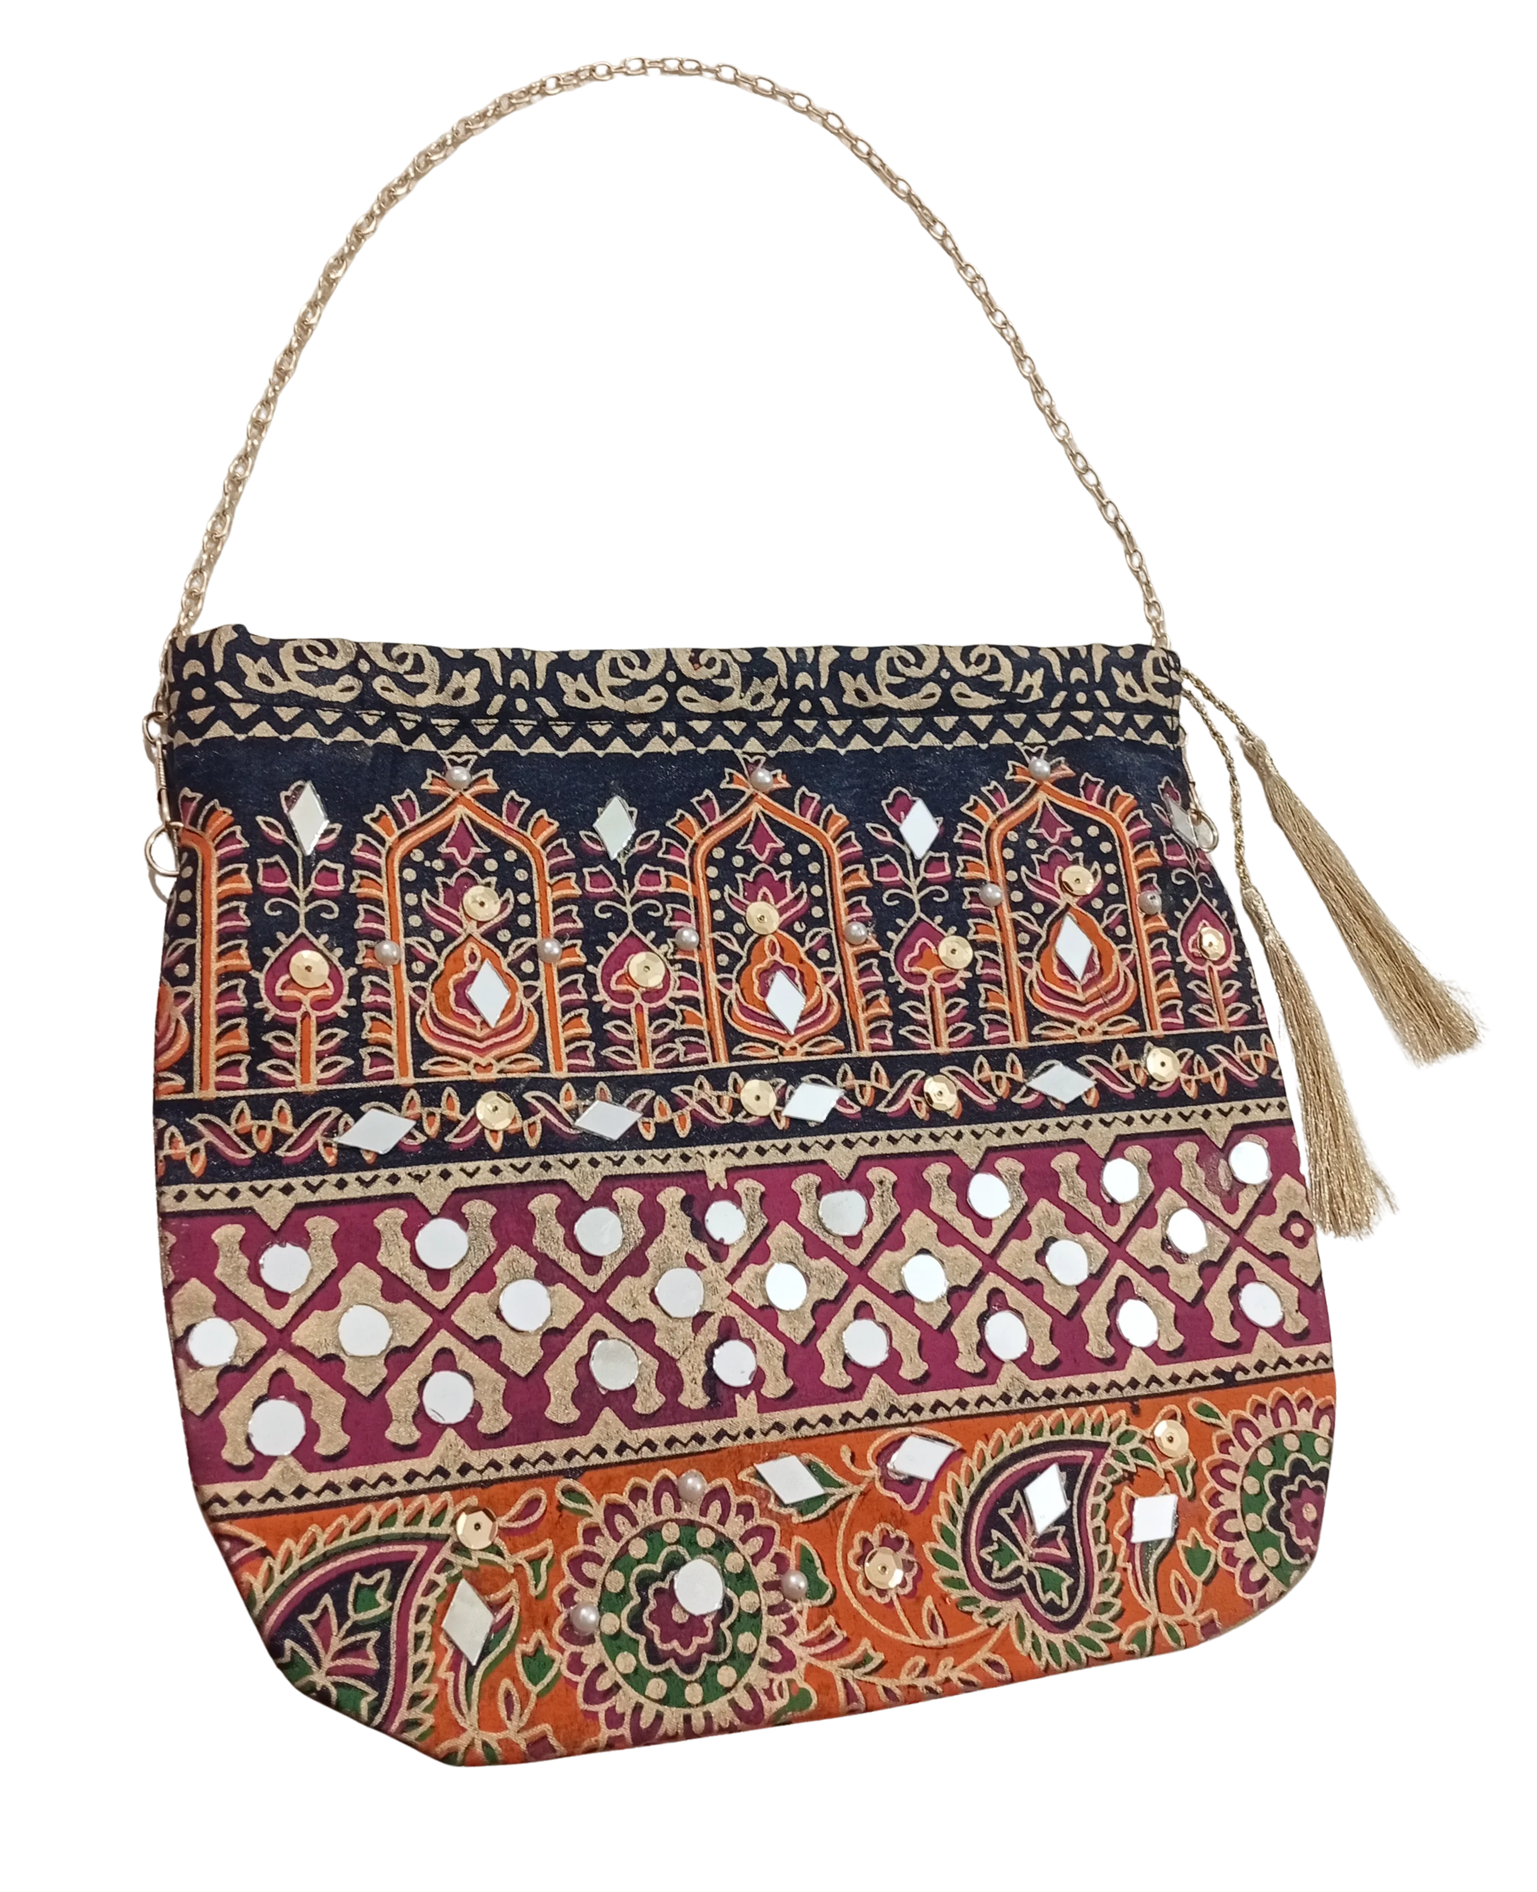
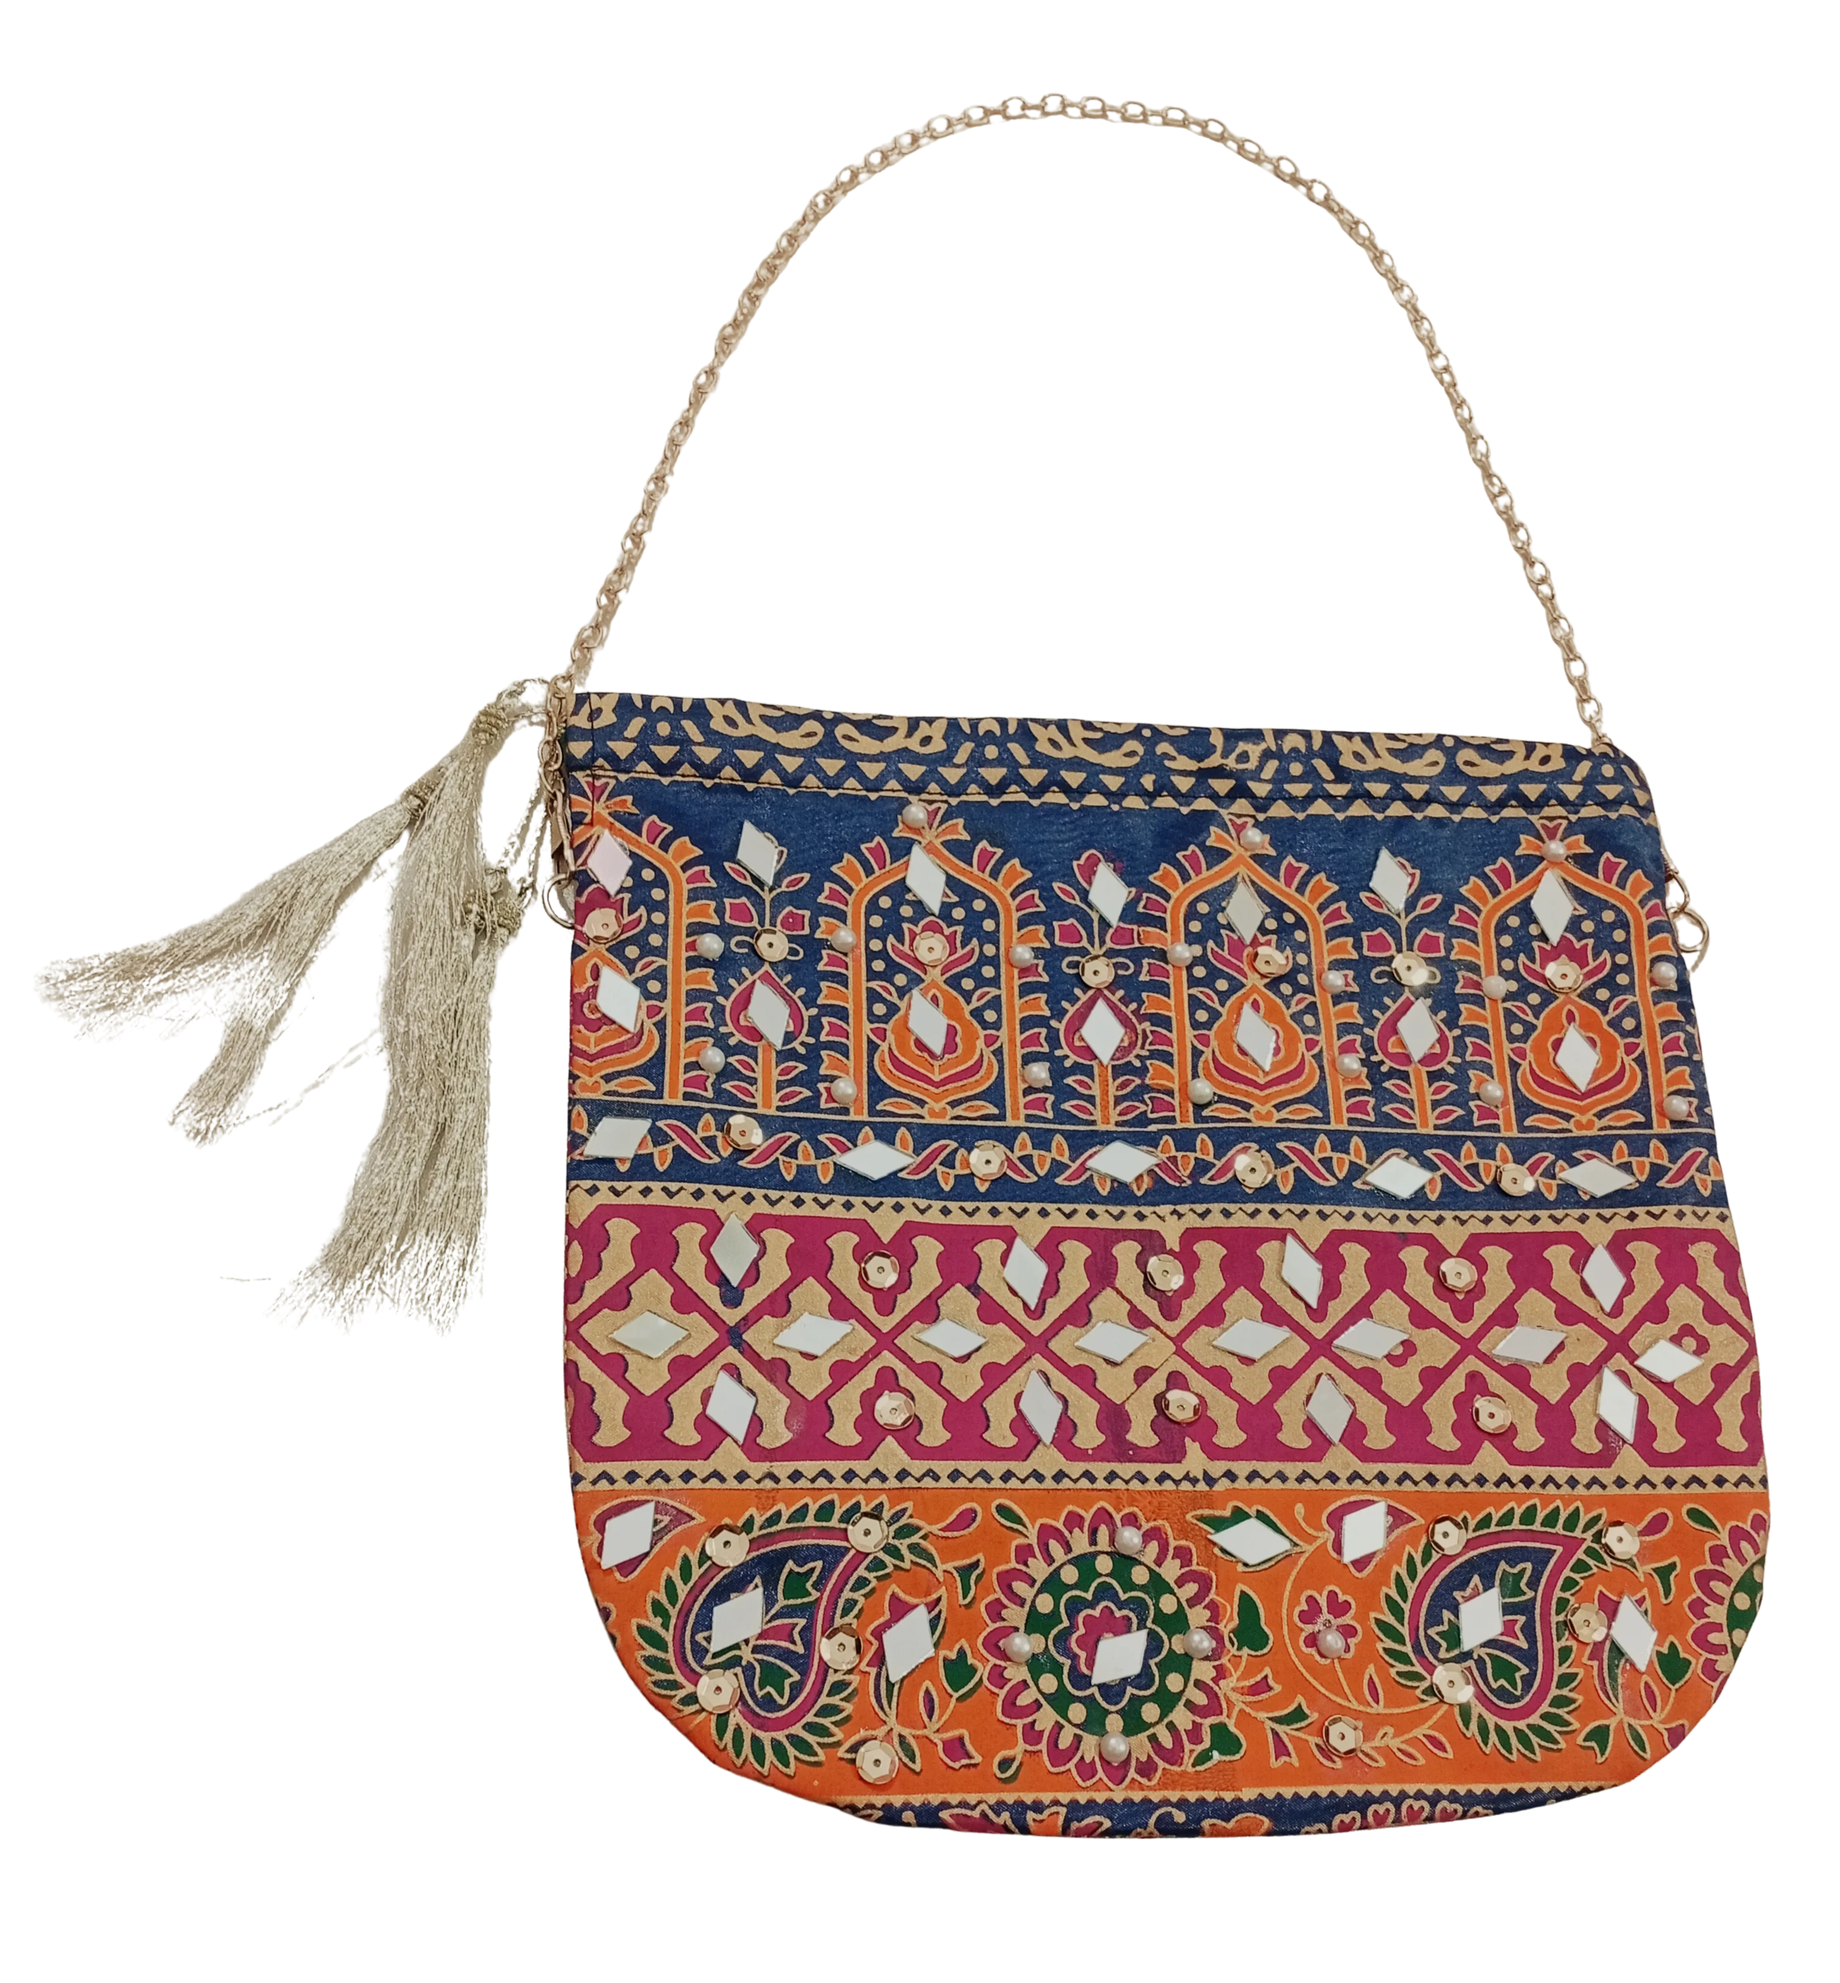
feat: update hero section images and description text

diff --git a/components/sections/Hero.tsx b/components/sections/Hero.tsx
@@ -45,7 +45,7 @@ export function Hero() {
             <em>Culture.</em>
           </h1>
           <p className={styles.sub}>
-            A Handbag Woven with Heritage -- Mirror work , Golden taseels and a Golden Chain Attached for hanging,crafted just like you
+            A Handbag Woven with Heritage -- Mirror work , Golden taseels and a Golden Chain Attached for hanging,crafted just like you ❤❤
           </p>
           <Link href="/product" className={styles.cta}>
             <motion.span
